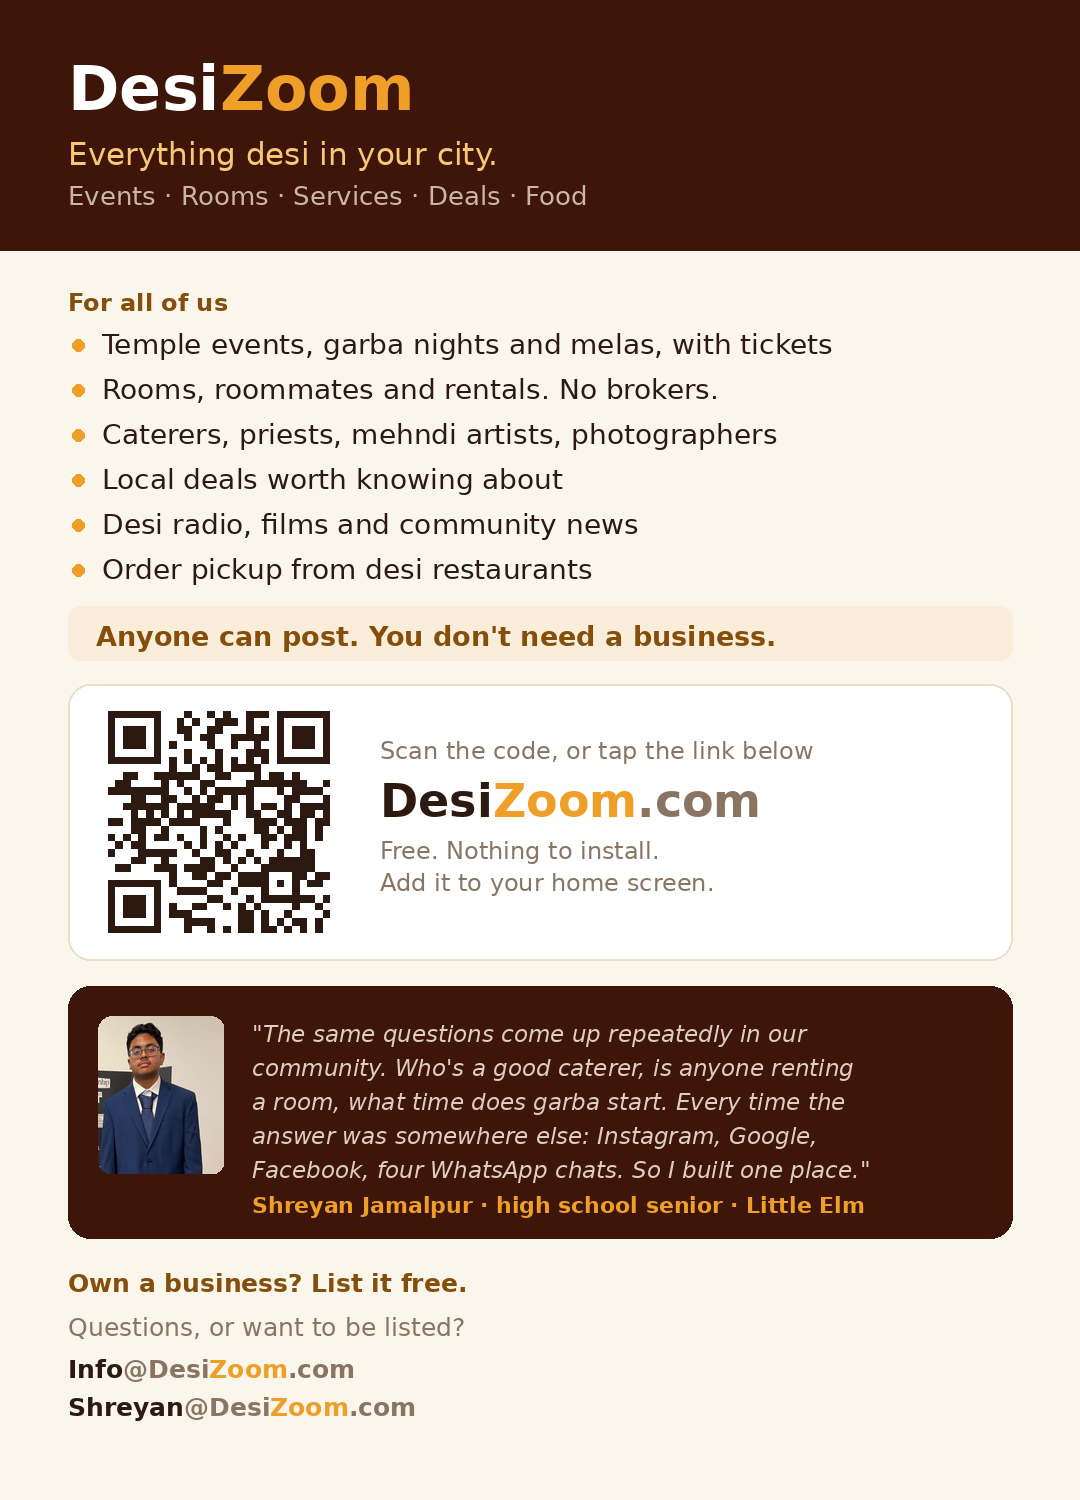
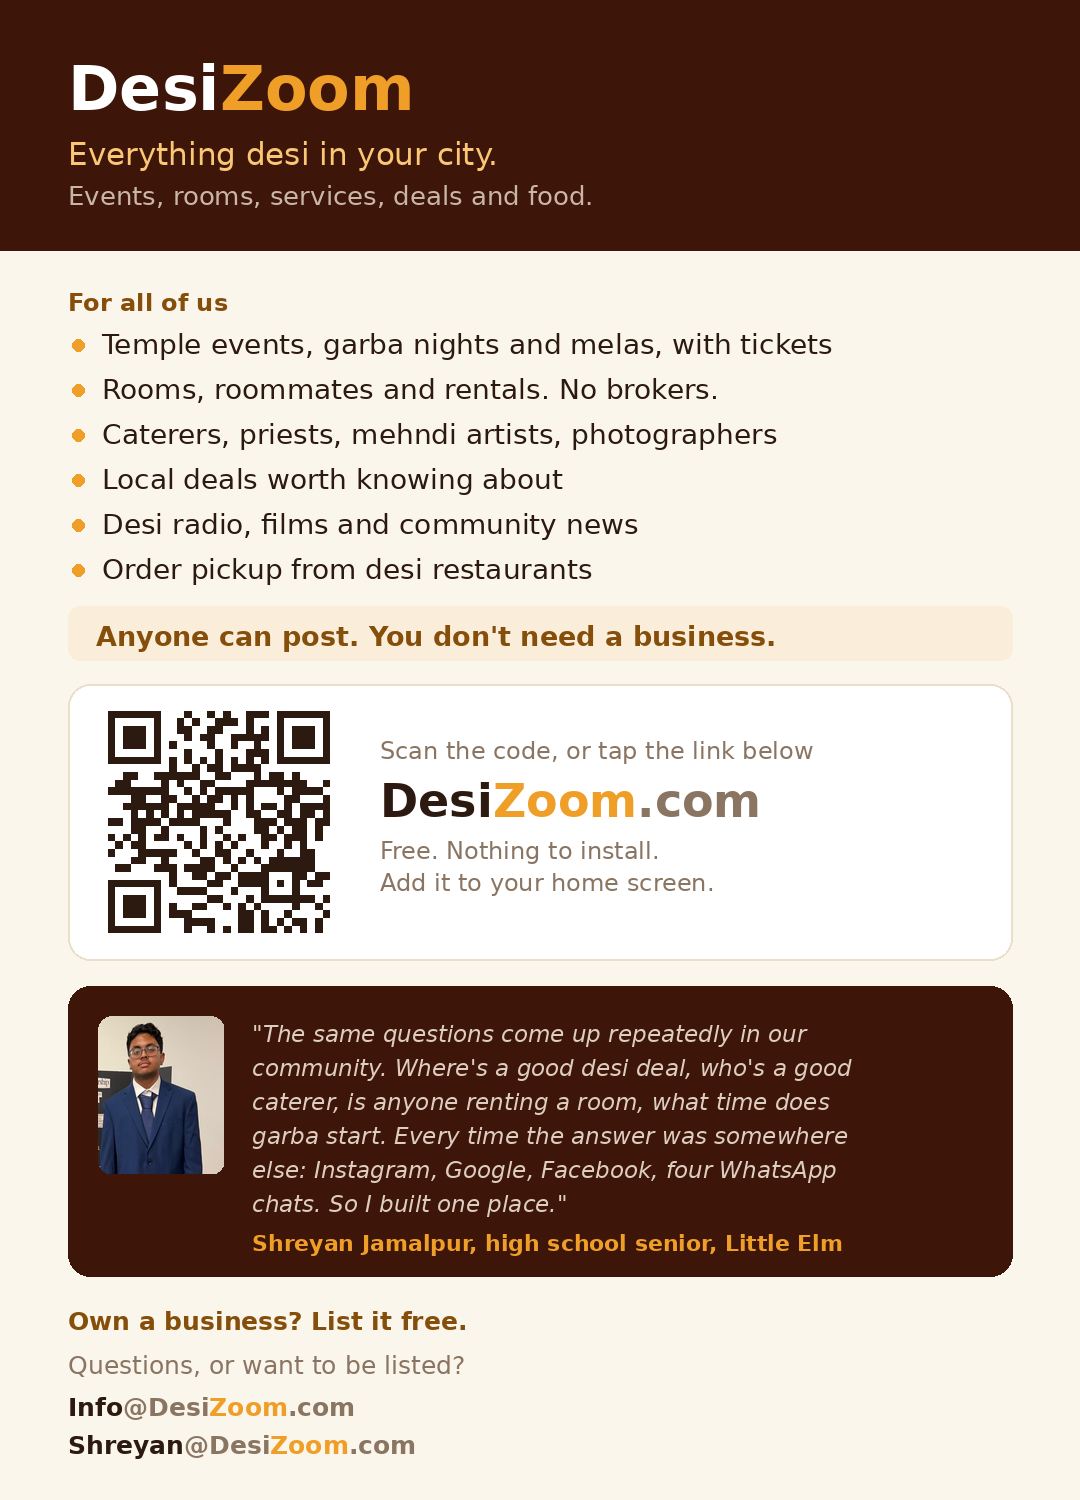
Vercel Web Analytics

Changed region(s): [[0.0611, 0.7053, 0.9472, 0.9813], [0.1528, 0.1227, 0.55, 0.1533]]

diff --git a/src/main.tsx b/src/main.tsx
@@ -4,10 +4,22 @@ import { BrowserRouter } from 'react-router-dom';
 import App from './App';
 import './index.css';
 
+// Vercel Web Analytics.
+//
+// Import from '@vercel/analytics/react', NOT '/next'. The setup page in the
+// Vercel dashboard defaults its snippet to Next.js; DesiZoom is Vite + React
+// and the /next entrypoint will not build here.
+//
+// It must be inside BrowserRouter. Outside it, the component cannot see route
+// changes, and a single-page app then reports one pageview per session no
+// matter how many pages someone actually visits.
+import { Analytics } from '@vercel/analytics/react';
+
 ReactDOM.createRoot(document.getElementById('root')!).render(
   <React.StrictMode>
     <BrowserRouter>
       <App />
+      <Analytics />
     </BrowserRouter>
   </React.StrictMode>
 );

diff --git a/marketing/make_dtabs_poster.py b/marketing/make_dtabs_poster.py
@@ -1,0 +1,88 @@
+# DesiZoom poster for DTABS WhatsApp groups.
+# Must stand alone: DTABS send the image with no caption, so there is no
+# tappable link. The QR and the printed address carry everything, and the
+# top band ties it to the event their members are already discussing.
+from PIL import Image, ImageDraw, ImageFont, ImageOps
+import qrcode, os
+ROOT=os.path.dirname(os.path.dirname(os.path.abspath(__file__)))
+CREAM=(251,246,236); NAVY=(61,21,9); ACCENT=(239,159,39); GOLD=(250,199,117)
+TEXT=(44,26,16); MUTED=(138,117,99); BROWN=(133,79,11); SOFT=(250,238,218)
+DEEP=(122,26,10)
+FD="/usr/share/fonts/truetype/dejavu"
+def f(s,b=False,it=False):
+    return ImageFont.truetype(f"{FD}/DejaVuSans-Oblique.ttf" if it else
+        (f"{FD}/DejaVuSans-Bold.ttf" if b else f"{FD}/DejaVuSans.ttf"), s)
+
+W,H=1080,1650
+img=Image.new("RGB",(W,H),CREAM); d=ImageDraw.Draw(img)
+
+# Event band
+d.rectangle([0,0,W,150],fill=DEEP)
+d.text((68,30),"Going to the DTABS Diwali Mela on Nov 7?",font=f(32,True),fill=GOLD)
+d.text((68,80),"Find it, and everything else desi nearby, on DesiZoom.",font=f(26),fill=(236,214,198))
+
+# Brand header
+d.rectangle([0,150,W,386],fill=NAVY)
+d.text((68,190),"Desi",font=f(58,True),fill=(255,255,255))
+d.text((68+d.textlength("Desi",font=f(58,True)),190),"Zoom",font=f(58,True),fill=ACCENT)
+d.text((68,268),"Everything desi in your city.",font=f(30),fill=GOLD)
+d.text((68,312),"Events, rooms, services, deals and food.",font=f(25),fill=(201,182,166))
+
+def bullets(label,lines,y0,gap=45):
+    d.text((68,y0),label,font=f(24,True),fill=BROWN); y=y0+40
+    for ln in lines:
+        d.ellipse([72,y+11,84,y+23],fill=ACCENT); d.text((102,y),ln,font=f(28),fill=TEXT); y+=gap
+    return y
+
+y=bullets("For all of us",[
+ "Temple events, garba nights and melas, with tickets",
+ "Rooms, roommates and rentals. No brokers.",
+ "Caterers, priests, mehndi artists, photographers",
+ "Local deals worth knowing about",
+ "Desi radio, films and community news",
+ "Order pickup from desi restaurants"],424)
+
+y+=8
+d.rounded_rectangle([68,y,W-68,y+54],radius=12,fill=SOFT)
+d.text((96,y+14),"Anyone can post. You don't need a business.",font=f(27,True),fill=BROWN)
+y+=78
+
+# QR — no caption exists, so never say "tap the link below"
+q=qrcode.QRCode(box_size=10,border=1,error_correction=qrcode.constants.ERROR_CORRECT_H)
+q.add_data("https://www.desizoom.com"); q.make(fit=True)
+qi=q.make_image(fill_color="#2c1a10",back_color="white").convert("RGB").resize((238,238),Image.NEAREST)
+d.rounded_rectangle([68,y,W-68,y+276],radius=22,fill=(255,255,255),outline=(236,223,201),width=2)
+img.paste(qi,(100,y+19)); tx=380
+d.text((tx,y+52),"Scan the code, or go to",font=f(24),fill=MUTED)
+wf=f(46,True); x=tx
+for part,col in (("Desi",TEXT),("Zoom",ACCENT),(".com",MUTED)):
+    d.text((x,y+90),part,font=wf,fill=col); x+=d.textlength(part,font=wf)
+d.text((tx,y+152),"Free. Nothing to install.",font=f(24),fill=MUTED)
+d.text((tx,y+184),"Add it to your home screen.",font=f(24),fill=MUTED)
+y+=276
+
+fy=y+26
+d.rounded_rectangle([68,fy,W-68,fy+290],radius=22,fill=NAVY)
+ph=ImageOps.fit(Image.open(os.path.join(ROOT,"public","shreyan.jpg")).convert("RGB"),(126,158),Image.LANCZOS,centering=(0.5,0.22))
+m=Image.new("L",(126,158),0); ImageDraw.Draw(m).rounded_rectangle([0,0,126,158],radius=14,fill=255)
+img.paste(ph,(98,fy+30),m)
+for i,ln in enumerate([
+ '"The same questions come up repeatedly in our',
+ "community. Where's a good desi deal, who's a good",
+ 'caterer, is anyone renting a room, what time does',
+ 'garba start. Every time the answer was somewhere',
+ 'else: Instagram, Google, Facebook, four WhatsApp',
+ 'chats. So I built one place."']):
+    d.text((252,fy+34+i*34),ln,font=f(23,it=True),fill=(222,206,192))
+d.text((252,fy+244),"Shreyan Jamalpur, high school senior, Little Elm",font=f(22,True),fill=ACCENT)
+
+y=fy+290+30
+d.text((68,y),"Own a business? List it free.",font=f(25,True),fill=BROWN)
+d.text((68,y+44),"Questions, or want to be listed?",font=f(25),fill=MUTED)
+cf=f(25,True)
+for row,local in enumerate(["Info","Shreyan"]):
+    xx=68
+    for part,col in ((local,TEXT),("@Desi",MUTED),("Zoom",ACCENT),(".com",MUTED)):
+        d.text((xx,y+86+row*38),part,font=cf,fill=col); xx+=d.textlength(part,font=cf)
+print("bottom:",y+86+38+30,"of",H)
+img.save(os.path.join(ROOT,"marketing","desizoom-dtabs.png"),"PNG",optimize=True)

diff --git a/marketing/make_posters.py b/marketing/make_posters.py
@@ -53,7 +53,7 @@ def contact(d,y):
 
 # ───────────────────────── community ─────────────────────────
 H=1500; img=Image.new("RGB",(1080,H),CREAM); d=ImageDraw.Draw(img)
-header(d,"Everything desi in your city.","Events · Rooms · Services · Deals · Food")
+header(d,"Everything desi in your city.","Events, rooms, services, deals and food.")
 y=bullets(d,"For all of us",[
  "Temple events, garba nights and melas, with tickets",
  "Rooms, roommates and rentals. No brokers.",
@@ -66,25 +66,33 @@ d.rounded_rectangle([68,y,1012,y+54],radius=12,fill=SOFT)
 d.text((96,y+14),"Anyone can post. You don't need a business.",font=f(27,True),fill=BROWN)
 y=qr_block(img,d,y+78)
 fy=y+26
-d.rounded_rectangle([68,fy,1012,fy+252],radius=22,fill=NAVY)
+# This poster always goes out with Shreyan's WhatsApp message above it,
+# and that message already tells the "same questions, four different apps"
+# four seconds. So the panel does what the caption can't: says he is still
+# building, and gives the Shreyan@ address below a reason to exist.
+# The DTABS poster is the exception — it is posted with no caption at all,
+# so it keeps the full quote.
+d.rounded_rectangle([68,fy,1012,fy+290],radius=22,fill=NAVY)
 ph=ImageOps.fit(Image.open(os.path.join(ROOT,"public","shreyan.jpg")).convert("RGB"),(126,158),Image.LANCZOS,centering=(0.5,0.22))
 m=Image.new("L",(126,158),0); ImageDraw.Draw(m).rounded_rectangle([0,0,126,158],radius=14,fill=255)
 img.paste(ph,(98,fy+30),m)
-for i,ln in enumerate(['"The same questions come up repeatedly in our',
- "community. Who's a good caterer, is anyone renting",
- 'a room, what time does garba start. Every time the',
- 'answer was somewhere else: Instagram, Google,',
- 'Facebook, four WhatsApp chats. So I built one place."']):
+for i,ln in enumerate([
+ '"The same questions come up repeatedly in our',
+ "community. Where's a good desi deal, who's a good",
+ 'caterer, is anyone renting a room, what time does',
+ 'garba start. Every time the answer was somewhere',
+ 'else: Instagram, Google, Facebook, four WhatsApp',
+ 'chats. So I built one place."']):
     d.text((252,fy+34+i*34),ln,font=f(23,it=True),fill=(222,206,192))
-d.text((252,fy+206),"Shreyan Jamalpur · high school senior · Little Elm",font=f(22,True),fill=ACCENT)
-y=fy+252+30
+d.text((252,fy+244),"Shreyan Jamalpur, high school senior, Little Elm",font=f(22,True),fill=ACCENT)
+y=fy+290+30
 d.text((68,y),"Own a business? List it free.",font=f(25,True),fill=BROWN)
 print("community bottom:",contact(d,y+44),"of",H)
 img.save(os.path.join(ROOT,"marketing","desizoom-community.png"),"PNG",optimize=True)
 
 # ───────────────────────── merchant ─────────────────────────
 H2=1180; im2=Image.new("RGB",(1080,H2),CREAM); d2=ImageDraw.Draw(im2)
-header(d2,"Get found by desi customers nearby.","Free listing · No monthly fee · No contract")
+header(d2,"Get found by desi customers nearby.","Free listing. No monthly fee. No contract.")
 y=bullets(d2,"For local businesses",[
  "Free listing. Show what you offer and your hours.",
  "Post deals and events free, as often as you like.",

diff --git a/marketing/make_whatsapp_poster.py b/marketing/make_whatsapp_poster.py
@@ -7,7 +7,7 @@ from PIL import Image, ImageDraw, ImageFont, ImageOps
 import qrcode, os
 
 ROOT = os.path.dirname(os.path.dirname(os.path.abspath(__file__)))
-W, H = 1080, 1700
+W, H = 1080, 1750
 CREAM=(251,246,236); NAVY=(61,21,9); ACCENT=(239,159,39); GOLD=(250,199,117)
 TEXT=(44,26,16); MUTED=(138,117,99); BROWN=(133,79,11); SOFT=(250,238,218)
 FD="/usr/share/fonts/truetype/dejavu"
@@ -21,7 +21,7 @@ d.rectangle([0,0,W,250], fill=NAVY)
 d.text((68,52),"Desi",font=f(62,True),fill=(255,255,255))
 d.text((68+d.textlength("Desi",font=f(62,True)),52),"Zoom",font=f(62,True),fill=ACCENT)
 d.text((68,136),"Everything desi in your city.",font=f(31),fill=GOLD)
-d.text((68,180),"Events · Rooms · Services · Deals · Food",font=f(26),fill=(201,182,166))
+d.text((68,180),"Events, rooms, services, deals and food.",font=f(26),fill=(201,182,166))
 
 def sect(label, lines, y0, size=28, gap=45):
     d.text((68,y0),label,font=f(24,True),fill=BROWN); y=y0+40
@@ -66,7 +66,7 @@ d.text((tx,by+152),"Free. Nothing to install.",font=f(24),fill=MUTED)
 d.text((tx,by+184),"Add it to your home screen.",font=f(24),fill=MUTED)
 
 fy = by + 300
-d.rounded_rectangle([68,fy,W-68,fy+252], radius=22, fill=NAVY)
+d.rounded_rectangle([68,fy,W-68,fy+290], radius=22, fill=NAVY)
 try:
     ph = Image.open(os.path.join(ROOT,"public","shreyan.jpg")).convert("RGB")
     ph = ImageOps.fit(ph,(126,158),Image.LANCZOS,centering=(0.5,0.22))
@@ -75,17 +75,20 @@ try:
 except Exception as e:
     print("photo:",e)
 tx2 = 252
+# Short, because the WhatsApp message above this image already tells the
+# "four different apps" story. See the note in make_posters.py.
 for i,ln in enumerate([
-    '"The same questions come up repeatedly in our',
-    "community. Who's a good caterer, is anyone renting",
-    'a room, what time does garba start. Every time the',
-    'answer was somewhere else: Instagram, Google,',
-    'Facebook, four WhatsApp chats. So I built one place."']):
+ '"The same questions come up repeatedly in our',
+ "community. Where's a good desi deal, who's a good",
+ 'caterer, is anyone renting a room, what time does',
+ 'garba start. Every time the answer was somewhere',
+ 'else: Instagram, Google, Facebook, four WhatsApp',
+ 'chats. So I built one place."']):
     d.text((tx2,fy+34+i*34),ln,font=f(23,it=True),fill=(222,206,192))
-d.text((tx2,fy+206),"Shreyan Jamalpur · high school senior · Little Elm",font=f(22,True),fill=ACCENT)
+d.text((tx2,fy+244),"Shreyan Jamalpur, high school senior, Little Elm",font=f(22,True),fill=ACCENT)
 
 # Contact
-cy = fy + 252 + 36
+cy = fy + 290 + 36
 d.text((68,cy),"Questions, or want to be listed?",font=f(25),fill=MUTED)
 cf = f(25,True)
 for row,(local,) in enumerate([("Info",),("Shreyan",)]):
